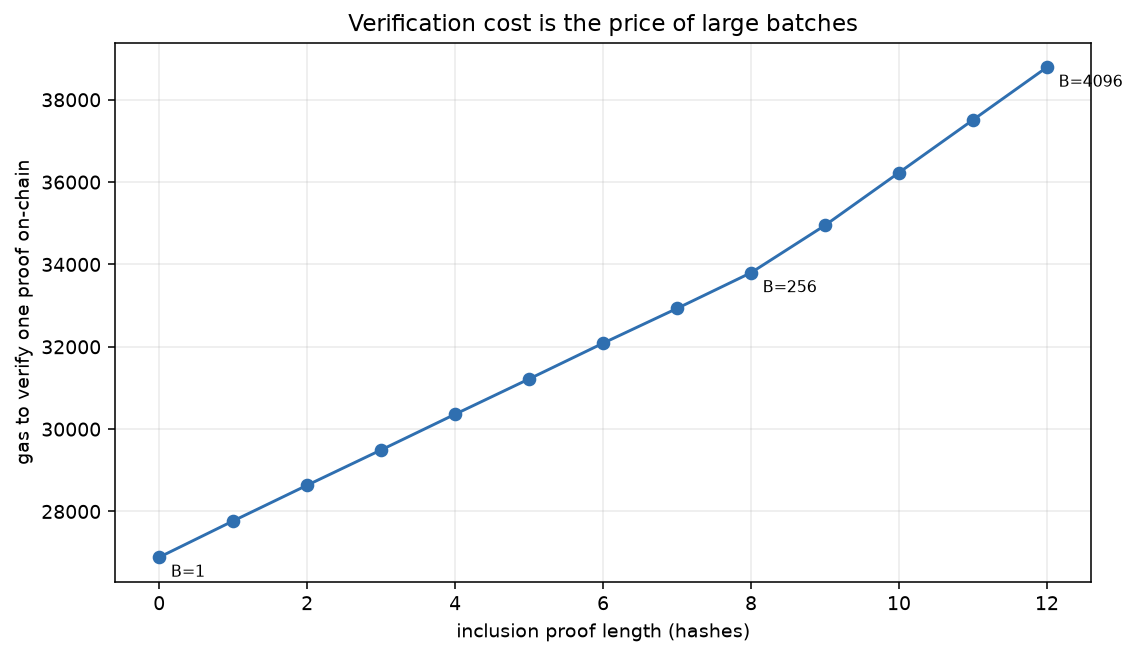
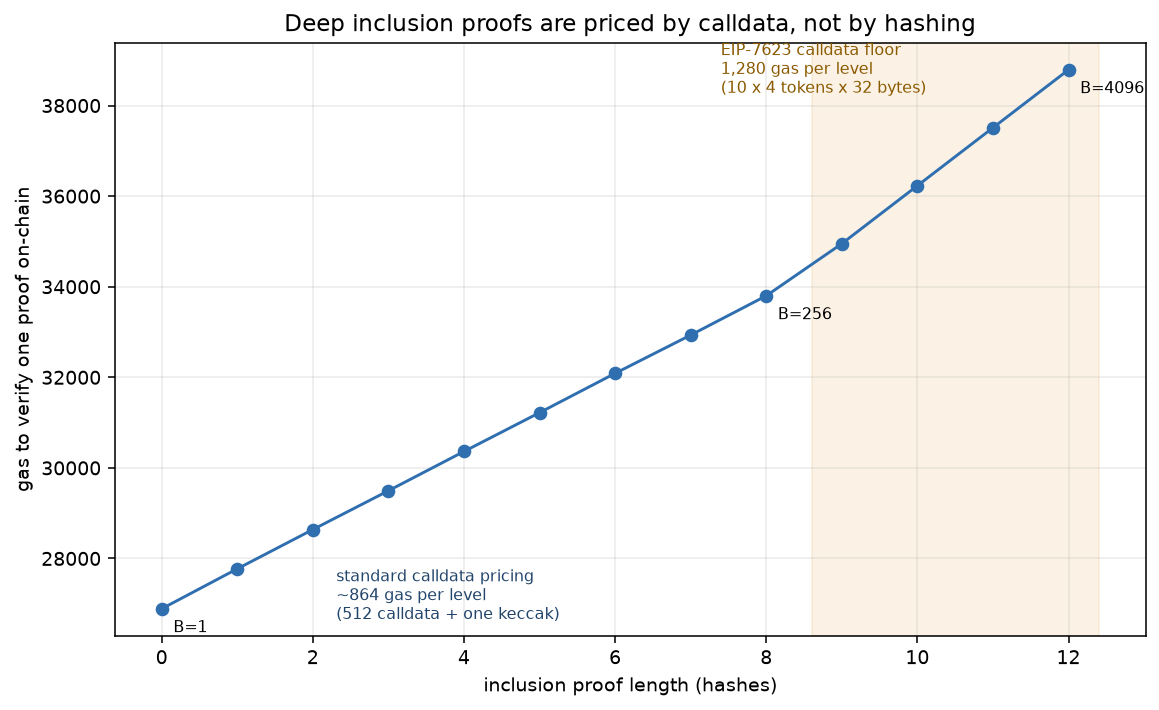
bench: widen the throughput sweep and pin down the calldata floor
The throughput sensitivity table had three rate points, which is thin evidence
for a curve. Nine points over a shorter horizon show the two regimes clearly:
cost scales with 1/throughput while the timeout binds, then flattens once the
configured batch size becomes the binding constraint.

That sharpens finding 4. At 10 parcels an hour, B=4096 costs $4,392.50 per
10,000 parcels against $87.17 at 5,000 an hour, a 50x difference for an
unchanged policy, and B=256 and B=4096 become byte-identical because neither
size binds. The realised batch of 81.4 events is the hourly event rate times
the one hour timeout, which is the model behaving as it should.

Also corrects finding 5. The step from eight to nine proof levels costs 1,151
gas, not 1,280: it is partly standard pricing and partly floored. Only levels
beyond it cost exactly 1,280. The figure now separates the two regimes instead
of averaging the transitional step into the standard slope.

Every one of the 30 numbers in the README was re-checked against the tables.

diff --git a/benchmarks/plots.py b/benchmarks/plots.py
@@ -153,26 +153,60 @@ def plot_gas_per_event() -> None:
 
 
 def plot_verification_gas() -> None:
+    """Verification cost against proof depth, and where its slope changes.
+
+    Two regimes. While standard calldata pricing applies, a proof level costs 512 gas of calldata
+    plus one keccak. From nine levels the EIP-7623 floor sets the price instead, and a level costs
+    exactly 10 gas per token x 4 tokens per byte x 32 bytes.
+    """
     rows = read("verification_gas.csv")
-    fig, ax = plt.subplots(figsize=(9, 5))
-    ax.plot(
-        [int(row["proof_len"]) for row in rows],
-        [int(row["verify_gas"]) for row in rows],
-        marker="o",
-        color="#2f6fb0",
+    depths = [int(row["proof_len"]) for row in rows]
+    gas = [int(row["verify_gas"]) for row in rows]
+    increments = [gas[i + 1] - gas[i] for i in range(len(gas) - 1)]
+
+    fig, ax = plt.subplots(figsize=(9.5, 5.5))
+    ax.plot(depths, gas, marker="o", color="#2f6fb0", zorder=3)
+
+    # Levels priced by the floor are the ones whose marginal cost is the floor's 1,280 gas. The step
+    # into the first of them is transitional, part standard and part floored, so it belongs to
+    # neither regime and is excluded from the quoted slope.
+    FLOOR_STEP = 1280
+    first_floored = next(i for i, step in enumerate(increments) if step >= FLOOR_STEP)
+    standard = increments[: first_floored - 1]
+    ax.axvspan(depths[first_floored] - 0.4, depths[-1] + 0.4, color="#d98800", alpha=0.10)
+
+    standard_mean = sum(standard) / len(standard)
+    ax.annotate(
+        f"standard calldata pricing\n~{standard_mean:.0f} gas per level\n"
+        "(512 calldata + one keccak)",
+        (depths[2], gas[2]),
+        textcoords="offset points",
+        xytext=(12, -46),
+        fontsize=8,
+        color="#22456b",
     )
+    ax.annotate(
+        "EIP-7623 calldata floor\n1,280 gas per level\n(10 x 4 tokens x 32 bytes)",
+        (depths[-2], gas[-2]),
+        textcoords="offset points",
+        xytext=(-140, 18),
+        fontsize=8,
+        color="#8a5a00",
+    )
+
     for row in rows:
         if int(row["batch_size"]) in (1, 256, 4096):
             ax.annotate(
                 f"B={row['batch_size']}",
                 (int(row["proof_len"]), int(row["verify_gas"])),
                 textcoords="offset points",
-                xytext=(6, -10),
+                xytext=(6, -12),
                 fontsize=8,
             )
+
     ax.set_xlabel("inclusion proof length (hashes)")
     ax.set_ylabel("gas to verify one proof on-chain")
-    ax.set_title("Verification cost is the price of large batches")
+    ax.set_title("Deep inclusion proofs are priced by calldata, not by hashing")
     ax.grid(True, alpha=0.25)
     save(fig, "03_verification_gas_vs_proof_depth.png")
 

diff --git a/benchmarks/run_frontier.py b/benchmarks/run_frontier.py
@@ -43,8 +43,11 @@ TIMEOUTS_S = [60.0, 300.0, 900.0, 3600.0]
 # for: near real time, a few minutes, a quarter hour, an hour.
 SLA_TARGETS_S = [60.0, 300.0, 900.0, 3600.0]
 
-# Parcel entry rates for the sensitivity table: a small depot, the primary scenario, a large hub.
-SENSITIVITY_PARCEL_RATES = [50.0, 500.0, 5000.0]
+# Parcel entry rates for the sensitivity table, spanning a single depot to a national hub. Run over
+# a shorter horizon than the main sweep: the top rates produce millions of events, and a few hundred
+# anchors is already enough for stable percentiles at every rate here.
+SENSITIVITY_PARCEL_RATES = [10.0, 25.0, 50.0, 100.0, 250.0, 500.0, 1000.0, 2500.0, 5000.0]
+SENSITIVITY_HOURS = 72.0
 
 REFERENCE_PARCELS = 10_000
 
@@ -214,7 +217,7 @@ def build_rate_sensitivity(gas: dict[str, float], per_parcel: float) -> list[dic
     """
     rows = []
     for parcel_rate in SENSITIVITY_PARCEL_RATES:
-        arrivals = poisson_arrivals(parcel_rate * per_parcel, HORIZON_HOURS, seed=SEED)
+        arrivals = poisson_arrivals(parcel_rate * per_parcel, SENSITIVITY_HOURS, seed=SEED)
         for batch_size in (16, 256, 4096):
             outcome = simulate(arrivals, AnchorPolicy(batch_size, timeout_s=3600.0))
             gas_per_event = merkle_total_gas(outcome.anchor_count, gas) / outcome.event_count

diff --git a/README.md b/README.md
@@ -78,20 +78,23 @@ and anchor timeout ([`sla_optimal.csv`](results/tables/sla_optimal.csv), grid in
    **2.7% at B=256**, the first batch size within 5% of the floor. Below the knee you are buying
    cost reductions cheaply; above it you are paying full price in latency.
 
-4. **The same policy is ten times more expensive for a small depot than for a large hub.** At 5,000
-   parcels per hour, B=4096 costs \$87.07 per 10,000 parcels and the timeout almost never fires. At
-   50 parcels per hour it costs **\$881.77**, because batches never fill and the timeout flushes
-   **100%** of them, making the realised batch 405 events instead of 4,096. Batch size is not a
-   throughput-independent design choice
+4. **The same policy costs a small depot 50x more than a national hub, and its batch size stops
+   meaning anything.** At 5,000 parcels per hour, B=4096 costs \$87.17 per 10,000 parcels and the
+   timeout fires on 0.1% of batches. At 10 parcels per hour the identical policy costs
+   **\$4,392.50**, because batches never fill and the timeout flushes **100%** of them: the realised
+   batch is 81.4 events, which is exactly the hourly event rate times the one hour timeout. At that
+   volume B=256 and B=4096 produce byte-identical results, because the configured size is no longer
+   the binding constraint. Batch size is not a throughput-independent design choice
    ([`rate_sensitivity.csv`](results/tables/rate_sensitivity.csv)).
 
 5. **Deep inclusion proofs are priced by the EIP-7623 calldata floor, not by hashing.** Verifying a
-   proof on-chain costs 26,889 gas for a batch of one and 38,790 for a batch of 4,096. Each extra
-   proof level costs about 863 gas up to depth 8 — 512 gas of calldata plus one keccak — and then
-   **exactly 1,280 gas** from depth 9, which is 10 gas per token x 4 tokens per non-zero byte x 32
-   bytes: the Prague calldata floor taking over from standard pricing. A 12-hash proof costs 4.1%
-   more on Prague and Osaka than on Shanghai and Cancun, while `record` and `anchor` are unchanged
-   to the gas across all four ([`hardfork_sensitivity.csv`](results/tables/hardfork_sensitivity.csv)).
+   proof on-chain costs 26,889 gas for a batch of one and 38,790 for a batch of 4,096. Each of the
+   first eight proof levels costs 863 gas on average, which is 512 gas of calldata plus one keccak.
+   The ninth costs 1,151, and every level after it costs **exactly 1,280 gas** — that is 10 gas per
+   token x 4 tokens per non-zero byte x 32 bytes, the Prague calldata floor taking over from
+   standard pricing partway through. Consistent with that, a 12-hash proof costs 4.1% more on Prague
+   and Osaka than on Shanghai and Cancun, while `record` and `anchor` are identical to the gas
+   across all four ([`hardfork_sensitivity.csv`](results/tables/hardfork_sensitivity.csv)).
 
 6. **The gas numbers are exactly reproducible, and the one source of variation is understood.**
    Repeated identical calls differ by 0.02–0.05%, entirely because a zero byte of calldata costs 4
